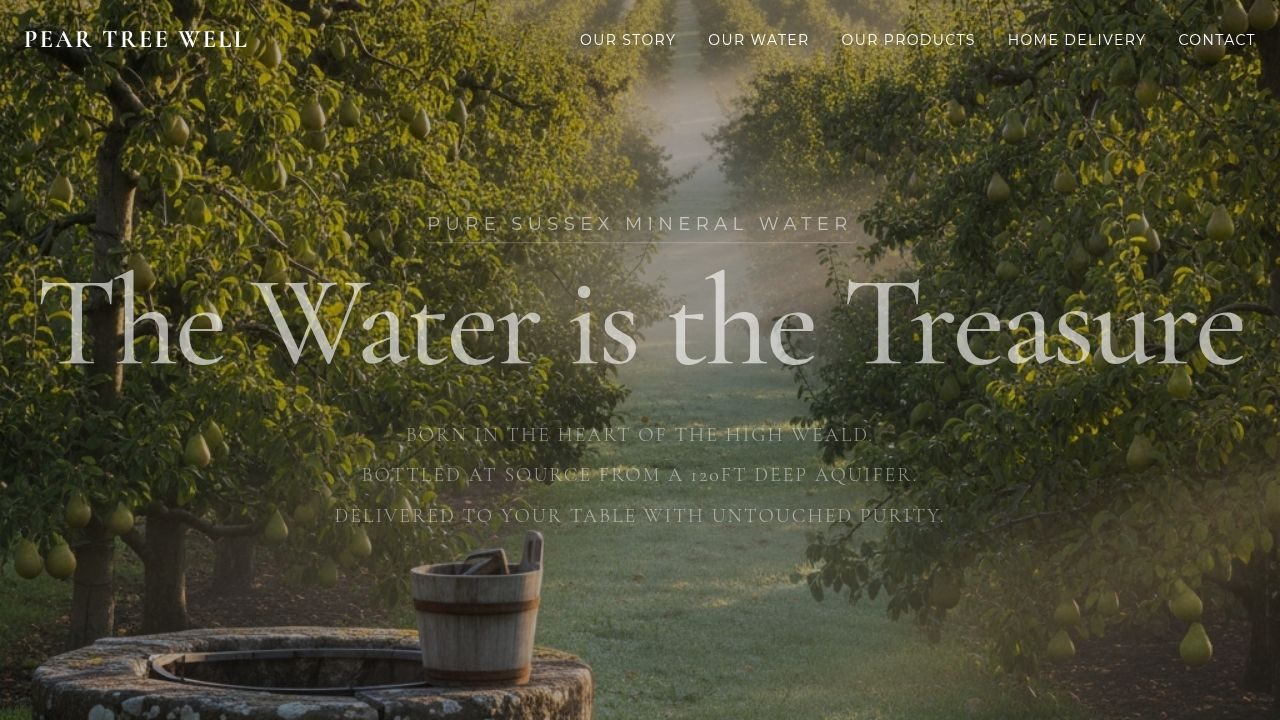
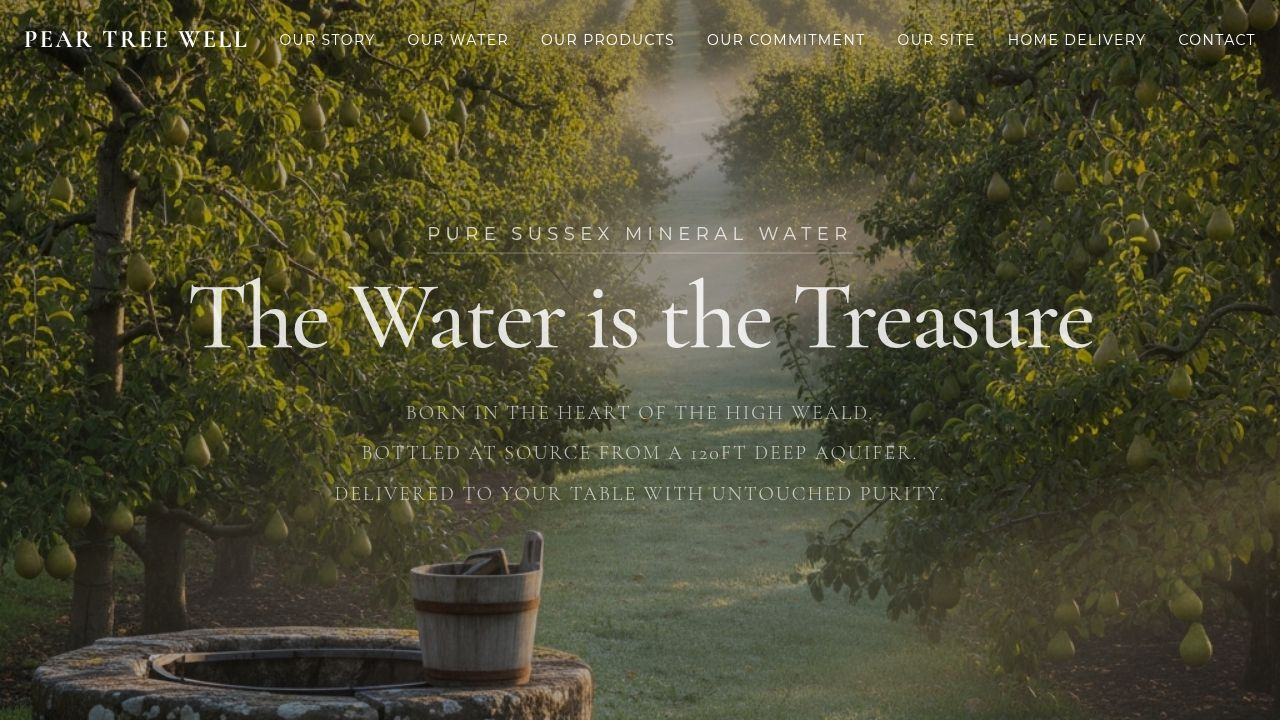
Reduce the size of the main heading on the homepage
Update the font size of the "The Water is the Treasure" heading in the hero section of the homepage from text-5xl/md:text-7xl/lg:text-9xl to text-4xl/md:text-6xl/lg:text-8xl.

Replit-Commit-Author: Agent
Replit-Commit-Session-Id: cf69cf5b-927b-4a17-948e-1a2bdb793a22
Replit-Commit-Checkpoint-Type: full_checkpoint
Replit-Commit-Event-Id: 7b599ea9-716d-4042-b01d-78fdab1c20ac
Replit-Commit-Screenshot-Url: https://storage.googleapis.com/screenshot-production-us-central1/27675f83-0477-4675-bcb3-3beb66687254/cf69cf5b-927b-4a17-948e-1a2bdb793a22/SyrtJFr
Replit-Helium-Checkpoint-Created: true

diff --git a/client/src/components/sections/hero.tsx b/client/src/components/sections/hero.tsx
@@ -24,7 +24,7 @@ export function Hero() {
           <span className="block text-base md:text-lg uppercase tracking-[0.3em] mb-4 text-white/90 border-b border-white/40 pb-1 w-fit mx-auto">
             Pure Sussex Mineral Water
           </span>
-          <h1 className="text-5xl md:text-7xl lg:text-9xl font-serif font-medium tracking-tight mb-8">
+          <h1 className="text-4xl md:text-6xl lg:text-8xl font-serif font-medium tracking-tight mb-8">
             The Water is the Treasure
           </h1>
           <div className="max-w-3xl mx-auto text-lg md:text-xl font-serif font-light text-white/80 leading-relaxed space-y-2 uppercase tracking-widest">
